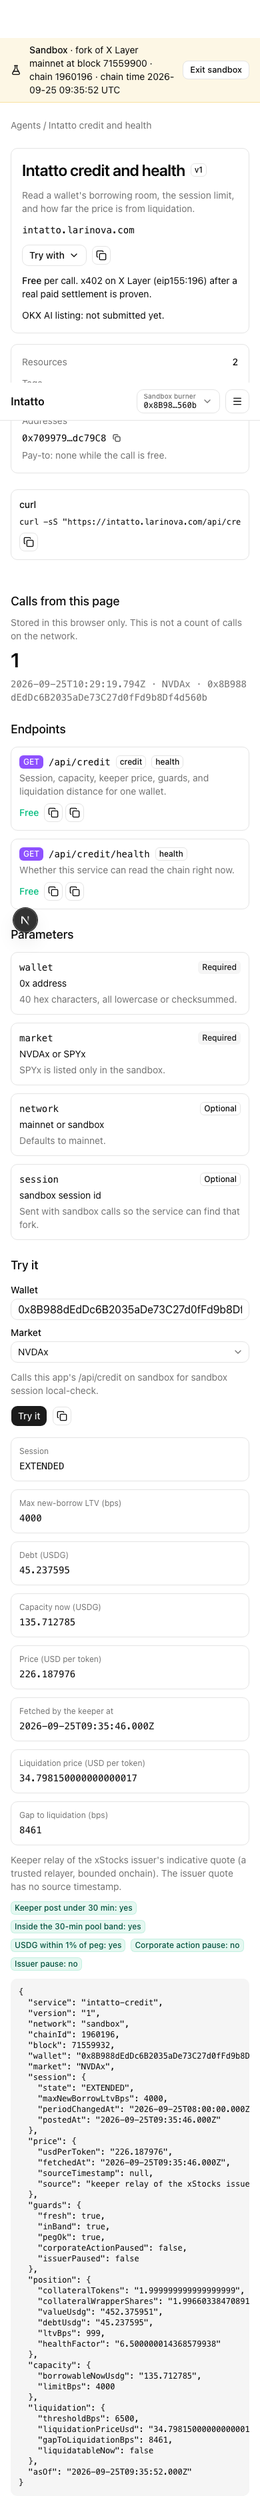
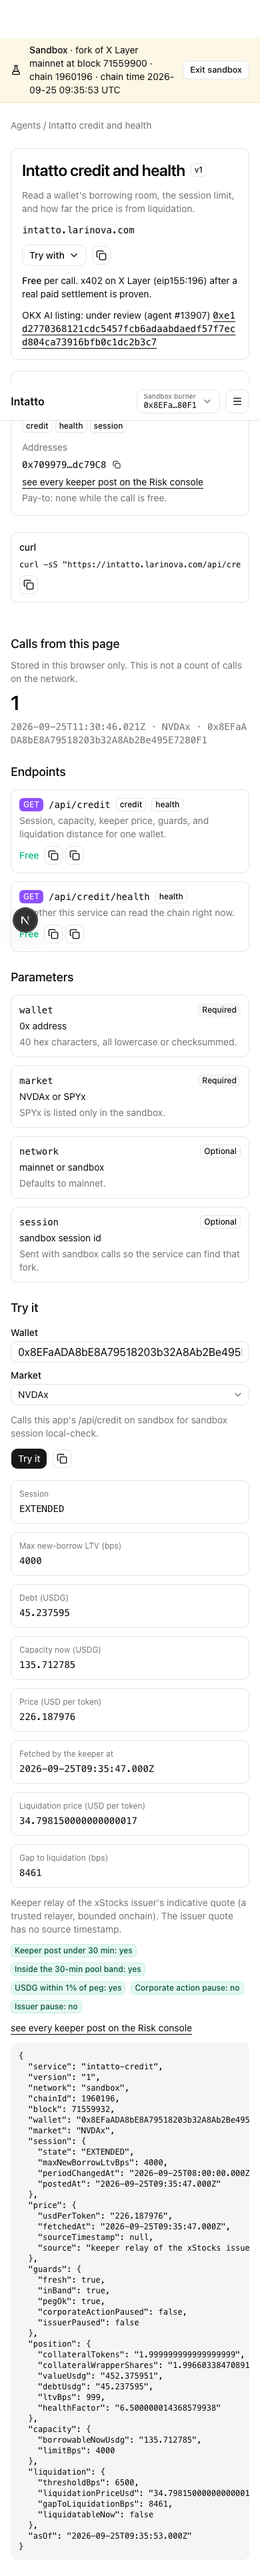
blk_credit_api + blk_ui_agents: listing submitted — OKX AI agent #13907 under review, documented with every parameter; Agents screen shows it. Built by Grok (grok-4.7).
Claude-Session: https://claude.ai/code/session_012Vooi1edwjJA3qCsHQRzLG

diff --git a/web/components/agents/service.tsx b/web/components/agents/service.tsx
@@ -3,6 +3,7 @@
 import { useEffect, useState } from "react"
 import Link from "next/link"
 import { ChevronDownIcon } from "lucide-react"
+import { explorerTx } from "@intatto/config/xlayer"
 import { useIntatto } from "@/lib/chain"
 import { AddressDisplay } from "@/components/ui/web3"
 import { Badge } from "@/components/ui/badge"
@@ -21,8 +22,10 @@ import {
   A2MCP_SUMMARY,
   curlFor,
   KEEPER_IDENTITY,
+  DEMO_WALLET,
   LISTING_STATUS,
   PAYMENT_NOTE,
+  REGISTRATION_TX,
   PRICE_LABEL,
   publicEndpointUrl,
   readCalls,
@@ -45,7 +48,7 @@ export function CreditService() {
   }, [])
 
   const example = curlFor(
-    `${publicEndpointUrl("/api/credit")}?wallet=0x0000000000000000000000000000000000000001&market=NVDAx&network=mainnet`,
+    `${publicEndpointUrl("/api/credit")}?wallet=${DEMO_WALLET}&market=NVDAx&network=mainnet`,
   )
 
   return (
@@ -83,7 +86,17 @@ export function CreditService() {
           <p className="text-sm">
             <span className="font-medium">{PRICE_LABEL}</span> per call. {PAYMENT_NOTE}.
           </p>
-          <p className="text-sm">{LISTING_STATUS}.</p>
+          <p className="text-sm">
+            {LISTING_STATUS}{" "}
+            <a
+              href={explorerTx(REGISTRATION_TX)}
+              target="_blank"
+              rel="noreferrer noopener"
+              className="font-mono break-all underline underline-offset-4"
+            >
+              {REGISTRATION_TX}
+            </a>
+          </p>
         </div>
         <dl className="grid gap-3 rounded-lg border p-4 text-sm">
           <div className="flex items-center justify-between gap-3">
@@ -123,7 +136,12 @@ export function CreditService() {
           <p className="font-medium">OKX AI agents via A2MCP</p>
           <p className="text-muted-foreground">{A2MCP_SUMMARY}</p>
           <p>{KEEPER_IDENTITY}.</p>
-          <p>{LISTING_STATUS}.</p>
+          <p>
+            {LISTING_STATUS}{" "}
+            <a href={explorerTx(REGISTRATION_TX)} target="_blank" rel="noreferrer noopener" className="underline underline-offset-4">
+              registration tx
+            </a>
+          </p>
         </div>
       ) : null}
 

diff --git a/web/components/agents/catalog.tsx b/web/components/agents/catalog.tsx
@@ -10,8 +10,10 @@ import { Button } from "@/components/ui/button"
 import { Card, CardContent, CardDescription, CardHeader, CardTitle } from "@/components/ui/card"
 import { Input } from "@/components/ui/input"
 import {
+  AGENT_LABEL,
   KEEPER_IDENTITY,
   KEEPER_ROLE,
+  LISTING_STATUS,
   PRICE_LABEL,
   SERVICE_DESCRIPTION,
   SERVICE_DOMAIN,
@@ -56,8 +58,7 @@ export function AgentsCatalog() {
         <Alert>
           <AlertTitle>Intatto lists its own service</AlertTitle>
           <AlertDescription>
-            Outside APIs are not added here. The credit service is the one call an agent can make. OKX AI listing: not
-            submitted yet.
+            Outside APIs are not added here. The credit service is the one call an agent can make. {LISTING_STATUS}.
           </AlertDescription>
         </Alert>
       ) : null}
@@ -97,7 +98,10 @@ function ServiceCard() {
       <CardContent className="grid gap-3">
         <p className="font-mono text-sm break-all">{SERVICE_DOMAIN}</p>
         <div className="flex flex-wrap items-center justify-between gap-2">
-          <Badge variant="success-light">{PRICE_LABEL}</Badge>
+          <span className="flex flex-wrap items-center gap-2">
+            <Badge variant="success-light">{PRICE_LABEL}</Badge>
+            <Badge variant="outline">{AGENT_LABEL}</Badge>
+          </span>
           <Button asChild>
             <Link href="/agents/credit">Try it</Link>
           </Button>
@@ -119,6 +123,7 @@ function KeeperCard({ keeper }: { keeper: string | null }) {
           <p className="text-sm text-muted-foreground">The keeper address appears once Intatto is deployed.</p>
         )}
         <Badge variant="warning-light">{KEEPER_IDENTITY}</Badge>
+        <Badge variant="outline">{AGENT_LABEL}</Badge>
       </CardContent>
     </Card>
   )

diff --git a/web/components/agents/content.ts b/web/components/agents/content.ts
@@ -7,16 +7,19 @@ export const SERVICE_DOMAIN = "intatto.larinova.com"
 export const PUBLIC_ORIGIN = "https://intatto.larinova.com"
 export const PRICE_LABEL = "Free"
 export const PAYMENT_NOTE = "x402 on X Layer (eip155:196) after a real paid settlement is proven"
-export const LISTING_STATUS = "OKX AI listing: not submitted yet"
+export const LISTING_STATUS = "OKX AI listing: under review (agent #13907)"
+export const AGENT_LABEL = "agent #13907"
[1 lines of base64/hex data omitted]
+export const DEMO_WALLET = "0x7F23b131F7312bd0f63EF79974E215Dc3E12a415"
 export const KEEPER_ROLE = "Posts the market session, the relayed price and the ticker caps, and runs bounded liquidations."
-export const KEEPER_IDENTITY = "OKX AI agent identity: registration pending"
+export const KEEPER_IDENTITY = "OKX AI agent #13907"
 
 export const PRICE_SOURCE =
   "Keeper relay of the xStocks issuer's indicative quote (a trusted relayer, bounded onchain). The issuer quote has no source timestamp."
 
-/** Short form of okx-ai/README.md. The listing is a draft and is not a connected client. */
+/** Short form of okx-ai/README.md. The listing is under review; no client is wired into this page. */
 export const A2MCP_SUMMARY = [
-  "The OKX AI listing is a draft and has not been submitted.",
+  "The OKX AI listing is under review (agent #13907), submitted 2026-09-25.",
   "An agent would GET https://intatto.larinova.com/api/credit for one wallet: collateral, debt, loan-to-value, health, USDG it can borrow now, and how far the price can fall before liquidation.",
   "wallet and market are required. network (mainnet or sandbox) and session are optional.",
   "The price is 0. GET /api/credit/health is always free.",

diff --git a/web/components/agents/endpoints.tsx b/web/components/agents/endpoints.tsx
@@ -1,7 +1,7 @@
 "use client"
 
 import { Badge } from "@/components/ui/badge"
-import { curlFor, ENDPOINTS, PARAMETERS, PRICE_LABEL, publicEndpointUrl } from "./content"
+import { curlFor, DEMO_WALLET, ENDPOINTS, PARAMETERS, PRICE_LABEL, publicEndpointUrl } from "./content"
 import { CopyButton } from "./copy-button"
 
 export function EndpointList() {
@@ -13,7 +13,7 @@ export function EndpointList() {
           const url = publicEndpointUrl(endpoint.path)
           const curl = curlFor(
             endpoint.path === "/api/credit"
-              ? `${url}?wallet=0x0000000000000000000000000000000000000001&market=NVDAx&network=mainnet`
+              ? `${url}?wallet=${DEMO_WALLET}&market=NVDAx&network=mainnet`
               : url,
           )
           return (

diff --git a/checks/ui/agents.spec.ts b/checks/ui/agents.spec.ts
@@ -43,7 +43,7 @@ test("agents credit call matches the fork", async ({ page, useFork }) => {
   await page.getByRole("link", { name: "Try it" }).click()
   await expect(page).toHaveURL(/\/agents\/credit$/)
   await expect(page.getByRole("heading", { name: "Intatto credit and health" })).toBeVisible()
-  await expect(page.getByText("OKX AI listing: not submitted yet.")).toBeVisible()
+  await expect(page.getByText("OKX AI listing: under review (agent #13907)")).toBeVisible()
   await expect(page.getByText("x402 on X Layer (eip155:196) after a real paid settlement is proven")).toBeVisible()
   await expect(page.getByTestId("credit-call-count")).toHaveText("0")
 

diff --git a/okx-ai/README.md b/okx-ai/README.md
@@ -1,7 +1,27 @@
 # Intatto credit and health (OKX AI A2MCP service)
 
-Status: **draft**. Nothing here has been registered or submitted to OKX AI. Registering needs Gabriel's
-confirmation. The listing definition is in [`credit-service.json`](./credit-service.json).
+Status: **Listing under review** (submitted 2026-09-25). OKX AI agent **#13907**, owner
+`0xe7bf3fe39bd5b14d874ccac2c4a771f068c158da`. Registration transaction
[1 lines of base64/hex data omitted]
+Avatar: `https://static.okx.com/cdn/web3/wallet/marketplace/headimages/agent/avatar/b311ccfe-b730-4921-993a-5b141c77b3a3.png`.
+
+The submitted listing name is **Intatto**. Its description: Intatto is a lending market on X Layer where
+holders of tokenized US stocks (xStocks such as NVDAx) borrow USDG. Borrowing limits follow the real stock
+market session, the price is a keeper relay bounded onchain, liquidation is bounded while the market is closed
+and losses run through an explicit reserve-then-lender waterfall. This agent answers, from onchain reads at
+one block, how much a wallet can borrow right now and how close its loan is to liquidation.
+
+The submitted service is **Borrow capacity and health** (A2MCP, fee 0,
+`https://intatto.larinova.com/api/credit`). Its `serviceDescription` is these four lines:
+
+```text
+Returns the credit and health of one wallet's Intatto loan on X Layer (USDG borrowed against tokenized stocks): market session and its new-borrow limit, USDG borrowable now or the exact contract error that refuses a borrow, the keeper's price with its fetch time, the price guards, collateral, debt, LTV, health factor, liquidation price and the percent fall that would make the loan liquidatable. Read-only, all values onchain at one block.
+wallet (string, required): the borrower's 0x address, lowercase or EIP-55, e.g. 0x7F23b131F7312bd0f63EF79974E215Dc3E12a415; market (string, required): NVDAx or SPYx, e.g. NVDAx; network (string, optional, default mainnet): mainnet (X Layer, chain 196) or sandbox (a fork session), e.g. mainnet; session (string, optional): fork session id, only with network=sandbox, e.g. zfzgj3Z8H3OReI3wCs-Sxw; chain (integer, optional): 196 for mainnet or 1960196 for sandbox, e.g. 196
+GET
+curl -s 'https://intatto.larinova.com/api/credit?wallet=0x7F23b131F7312bd0f63EF79974E215Dc3E12a415&market=NVDAx'
+```
+
+The listing definition is in [`credit-service.json`](./credit-service.json).
 
 The service reports one wallet's Intatto loan on X Layer: collateral, debt, loan-to-value, health factor,
 the USDG it can borrow right now, and how far the token price can fall before liquidation. Every value comes
@@ -19,18 +39,19 @@ from the Intatto contracts (`MarketLens.account`, `market` and `vault`), all rea
 | `market` | yes | string | `NVDAx` or `SPYx` |
 | `network` | no | string | `mainnet` (default, X Layer chain 196) or `sandbox` |
 | `session` | no | string | Sandbox session id (`[A-Za-z0-9_-]{1,64}`), only with `network=sandbox` |
+| `chain` | no | integer | `196` for mainnet or `1960196` for sandbox. Example: `196` |
 
 ## Example
 
 ```bash
-curl -s 'https://intatto.larinova.com/api/credit?wallet=0xBc9f5CE82d10813AE411ffFc5315E7907E298755&market=NVDAx'
+curl -s 'https://intatto.larinova.com/api/credit?wallet=0x7F23b131F7312bd0f63EF79974E215Dc3E12a415&market=NVDAx'
 ```
 
 Until Intatto is deployed on mainnet, that call answers `503 {"error":"Intatto is not deployed on mainnet yet","code":"NOT_DEPLOYED"}`.
 To read a sandbox fork, add `&network=sandbox&session=<id>`, where `<id>` comes from the Intatto sandbox.
 
-The response below was produced by the route on a fork of X Layer at block 71,559,930. A burner deposited
-4 NVDAx and borrowed at 30% LTV in an EXTENDED session:
+The response below was produced by the route on a fork of X Layer at block 71,559,930 (4 NVDAx deposited,
+borrowed at 30% LTV, EXTENDED session). The wallet shown is the live demo wallet.
 
 ```json
 {
@@ -39,7 +60,7 @@ The response below was produced by the route on a fork of X Layer at block 71,55
   "network": "sandbox",
   "chainId": 1960196,
   "block": 71559930,
-  "wallet": "0xBc9f5CE82d10813AE411ffFc5315E7907E298755",
+  "wallet": "0x7F23b131F7312bd0f63EF79974E215Dc3E12a415",
   "market": "NVDAx",
   "session": { "state": "EXTENDED", "maxNewBorrowLtvBps": 4000, "periodChangedAt": "2026-09-25T08:00:00.000Z", "postedAt": "2026-09-25T09:35:48.000Z" },
   "price": { "usdPerToken": "226.187976", "fetchedAt": "2026-09-25T09:35:48.000Z", "sourceTimestamp": null, "source": "keeper relay of the xStocks issuer's indicative quote (trusted relayer, bounded onchain)" },
@@ -122,16 +143,13 @@ When `CREDIT_PAYMENT_MODE=paid`, a valid request that carries no payment gets HT
   been proven end to end.
 - Invalid parameters answer 400 before any challenge, so no caller pays for a malformed request.
 
-## Registering (not done)
+## Submitted listing
 
-On OKX AI, an A2MCP ASP is registered through Onchain OS by giving the service name, description, price and
-endpoint. Values for each are in `credit-service.json`. Before registering:
-
-1. Deploy Intatto on mainnet and set `LIVE_DEPLOYMENT`, so the curl above answers 200.
-2. OKX's self-check sends a bare call (`curl -i -X POST <endpoint>`) and expects 200 from a free endpoint.
-   This endpoint is GET-only and needs `wallet` and `market`, so a bare call answers 400 (or 405 for POST).
-   Confirm with the reviewer that the registered endpoint may carry query parameters.
-3. Get Gabriel's confirmation, then register. Do not register or submit anything before that.
+Submitted 2026-09-25. Status: Listing under review. Agent #13907. Owner
+`0xe7bf3fe39bd5b14d874ccac2c4a771f068c158da`. Registration transaction
[1 lines of base64/hex data omitted]
+(https://www.oklink.com/x-layer/tx/0xe1d2770368121cdc5457fcb6adaabdaedf57f7ecd804ca73916bfb0c1dc2b3c7).
+The live demo wallet in every example is `0x7F23b131F7312bd0f63EF79974E215Dc3E12a415`.
 
 ## Proof
 
